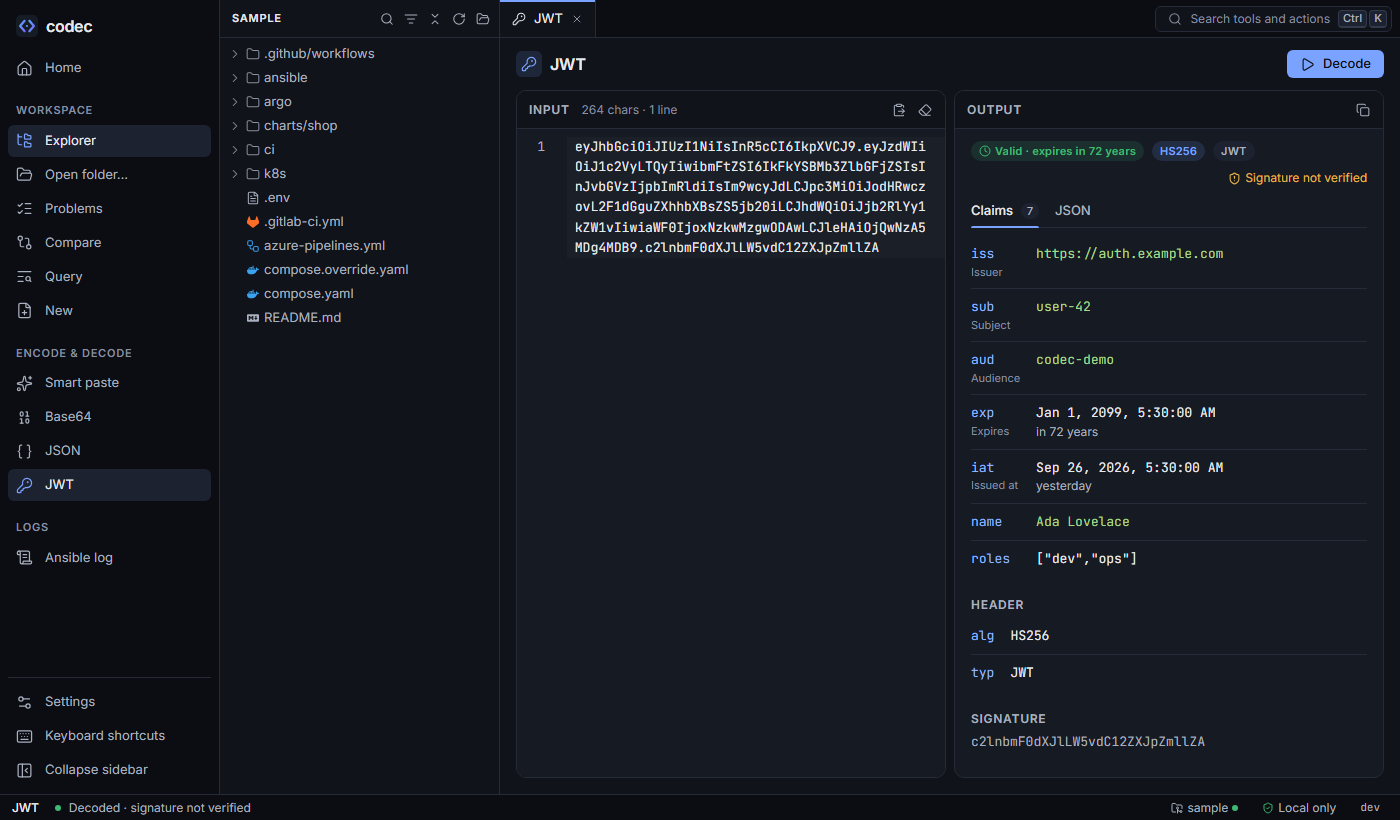
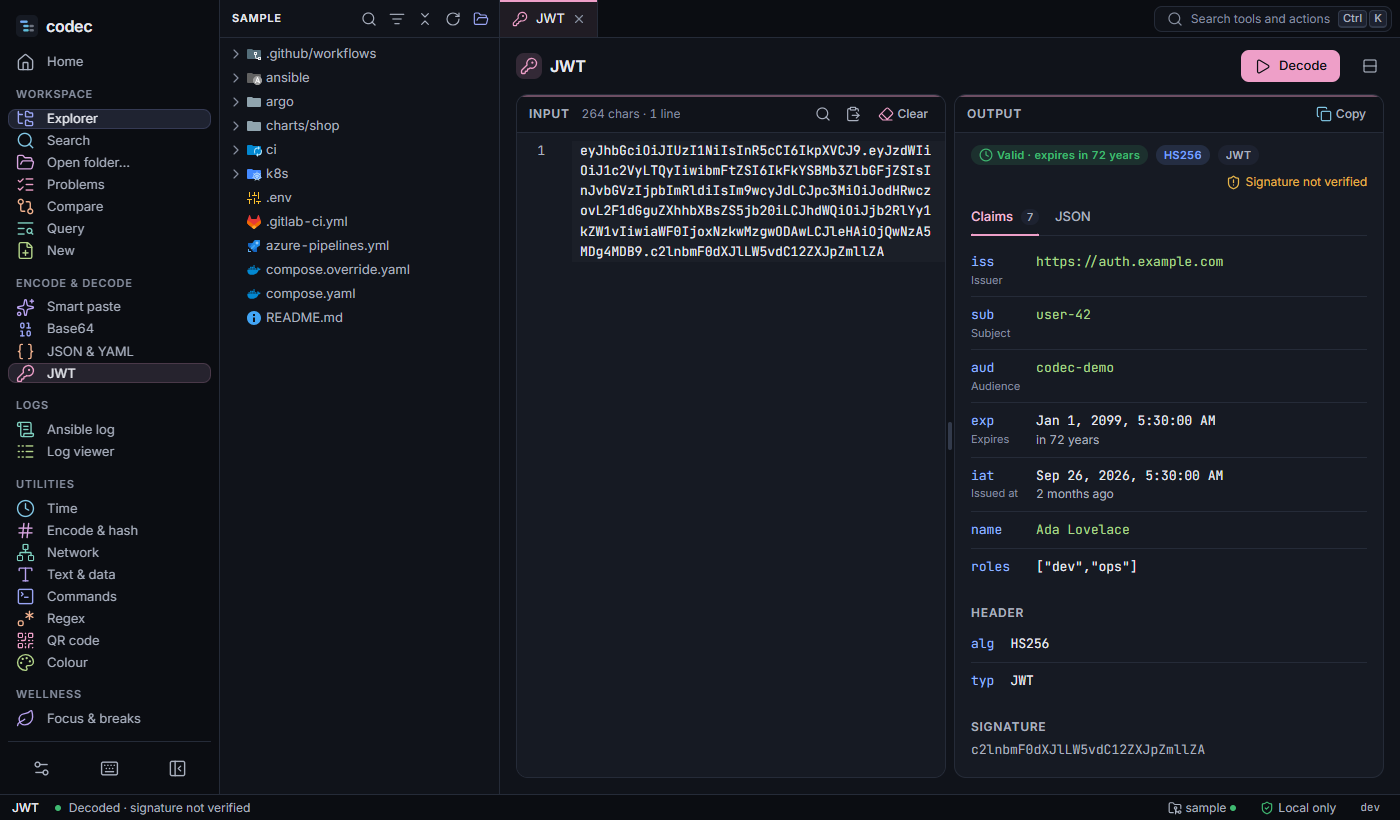
3.10.1 T6: design language, docs and screenshots; release 3.10.1

diff --git a/docs/design.html b/docs/design.html
@@ -78,6 +78,7 @@
 
 <h2 id="colour">Colour<a class="anchor" href="#colour">#</a></h2>
 <p>codec is dark by default, with more themes in Settings: <strong>Dusk</strong>, a softer, colourful dark theme for long days (a muted blue-violet ground, off-white text at about 10:1 instead of 16:1, pastel colours, each tool and kind of action in its own colour); <strong>Midnight</strong>, <strong>Forest</strong>, <strong>Rosé</strong> and <strong>Ocean</strong>, the same colours on deep navy, green-grey, pink-violet and deep blue grounds; <strong>High contrast</strong>, black and white with every text at least 7:1; <strong>Light</strong>; and <strong>Paper</strong>, a warm, low-glare light theme in which the tools keep their colours. System follows the operating system, using the light and the dark theme you choose for it. Depth comes from stepping surfaces, not from shadows; the one soft shadow is kept for popovers and dialogs. Every colour is a named token; components never use raw colours.</p>
+<p><strong>Colour has three jobs, kept apart.</strong> Each tool has its own colour (eight of them: indigo, violet, orchid, pink, peach, lime, teal, cyan), shown on the rail, its tab, its Home card and its page, in every theme; each kind of action has a tone (copy, clear, save, swap, open, add, run); and the status colours below are used by no tool, so a colour never suggests a problem that isn't there. <em>Settings → Tool colours</em> turns the first two off, and everything takes the theme's accent.</p>
 <h3 id="surfaces">Surfaces and text<a class="anchor" href="#surfaces">#</a></h3>
 <div class="swatches">
   <div class="swatch"><span style="background:#0b0d12"></span><div><code>--bg-0</code><br>app, rail</div></div>
@@ -113,12 +114,12 @@
 
 <h2 id="type">Type and spacing<a class="anchor" href="#type">#</a></h2>
 <ul>
-  <li><strong>UI:</strong> Inter, 13 px with 1.5 line height; 11 and 12 px for small text; 14, 16, 20 and 28 px for headings.</li>
-  <li><strong>Code:</strong> JetBrains Mono, 13 px with 1.55 line height. Both fonts are bundled; nothing loads from the internet.</li>
+  <li><strong>UI:</strong> Inter, 13 px with 1.5 line height; 11 and 12 px for small text; 14, 16, 20 and 28 px for headings. Interface size Large makes each a step bigger. Figures keep one width, so counts and times don't shift as they change.</li>
+  <li><strong>Code:</strong> JetBrains Mono, 13 px with 1.55 line height, for code, paths and values, never for sentences. Both fonts are bundled; nothing loads from the internet.</li>
   <li><strong>Spacing:</strong> a 4 px scale (4, 8, 12, 16, 20, 24, 32, 48).</li>
-  <li><strong>Radius:</strong> 4 px for inputs, 6 px for buttons, 10 px for panels and dialogs.</li>
-  <li><strong>Controls:</strong> 28 px tall (24 px compact).</li>
-  <li><strong>Motion:</strong> 120 ms ease-out, and none at all when the system asks for reduced motion.</li>
+  <li><strong>Radius:</strong> 4 px for inputs, 8 px for buttons, 12 px for panels and cards, 16 px for dialogs.</li>
+  <li><strong>Controls:</strong> 28, 32 or 36 px tall for Compact, Comfortable (the default) and Large.</li>
+  <li><strong>Motion:</strong> 80 ms for hovers, 120 ms for most changes, 240 ms for things that move across the screen, and none at all when the system asks for reduced motion.</li>
 </ul>
 
 <h2 id="layout">Layout<a class="anchor" href="#layout">#</a></h2>
@@ -139,10 +140,11 @@
   <text class="sm" x="24" y="310">Status bar: file type · path at the cursor · problem counts · folder and watch state · version</text>
 </svg>
 </div>
-<p>All panes resize and collapse, and their sizes persist. Lens views use a consistent three-part layout: a side panel of inputs and summaries, a main area (graph or list), and details for the selected item.</p>
+<p><strong>Every pane resizes.</strong> Drag the line between two panes (a grip in its middle shows where), or focus it and use the arrow keys (<kbd>Shift</kbd> for bigger steps, <kbd>Home</kbd> and <kbd>End</kbd> for the limits); a double click or <kbd>Enter</kbd> puts it back. Sizes are remembered, side panels keep their width when the window changes, and panes stack when there is no room side by side. A tool's input can sit beside its output or over it (the button at the end of its toolbar). Lens views use one three-part layout: a side panel of inputs and summaries, a main area (graph or list), and details for the selected item.</p>
+<p><strong>The shell is built around what you use.</strong> The rail lists Home, your pinned tools, the workspace views and every tool by group. Tabs that don't fit scroll and are listed under a count at the end; drag one to move it, right-click it to close it, the others or all. Home finds a tool by name or by what it does, and shows the pinned ones and the ones opened lately first. The palette (<kbd>Ctrl</kbd> <kbd>K</kbd>) lists every action, tool and setting, the ones run last first.</p>
 
 <h2 id="components">Components<a class="anchor" href="#components">#</a></h2>
-<p>Every screen is built from one shared set: buttons (primary, secondary, ghost), icon buttons with tooltips, tabs, segmented controls, selects, toggles, search inputs, split panes, the tree (keyboard navigable, windowed for long lists), the code view (CodeMirror), the graph (automatic layout, pan and zoom, hover highlights neighbours), popovers, context menus, dialogs, toasts (with an optional Undo), badges with file-type logos, empty states and skeletons.</p>
+<p>Every screen is built from one shared set: buttons (primary, secondary, ghost), icon buttons with tooltips, tabs, segmented controls, selects, toggles, text fields with one frame and one focus ring, chips (presets and toggles), search inputs, split panes, a view header, the tree (keyboard navigable, windowed for long lists), the code view (CodeMirror), the graph (automatic layout, pan and zoom, hover highlights neighbours), popovers, context menus, dialogs, toasts (with an optional Undo), badges with file-type logos, empty states and skeletons.</p>
 <ul>
   <li><strong>Icons:</strong> Lucide, 16 px, 1.75 stroke, in the current text colour.</li>
   <li><strong>Logos:</strong> the official marks of Kubernetes, Helm, Argo, GitHub Actions, GitLab, Azure Pipelines, Ansible and Docker, used only to label file types, in brand colours adjusted for contrast in each theme.</li>
@@ -152,15 +154,16 @@
 <div class="table-wrap"><table>
   <tr><th>State</th><th>Pattern</th></tr>
   <tr><td>Empty</td><td>An icon, one sentence of what goes here, and the action that fills it ("Open folder", "Try the sample").</td></tr>
-  <tr><td>Loading</td><td>Skeleton blocks in the shape of the content; small "Reading…" text only for refreshes of content already shown.</td></tr>
-  <tr><td>Error</td><td>What failed in plain words, the reason if known, and a way forward ("Try again", a link to the line).</td></tr>
+  <tr><td>Loading</td><td>Skeleton blocks in the shape of the content; small "Working…" or "Reading…" text in the header only for content already shown that is being worked out again. Never a spinner.</td></tr>
+  <tr><td>Error</td><td>An icon, what failed in plain words, the reason if known, and a way forward ("Try again", a link to the line). The same everywhere.</td></tr>
   <tr><td>Success</td><td>Quiet: a green check and a count ("No problems found"), never a modal.</td></tr>
 </table></div>
 
 <h2 id="a11y">Accessibility<a class="anchor" href="#a11y">#</a></h2>
 <ul>
   <li>Text meets 4.5:1 contrast on its surface (muted text included, on every surface but pressed states).</li>
-  <li>A 2 px accent focus ring on keyboard focus, never removed without a visible replacement.</li>
+  <li>A 2 px accent focus ring on keyboard focus, never removed without a visible replacement; a text field shows its border colour and a ring.</li>
+  <li>Dividers between panes are focusable and move with the arrow keys.</li>
   <li>Every control has an accessible name; icon-only buttons have labels and tooltips.</li>
   <li>Trees, lists, tabs and radio groups follow the WAI-ARIA patterns for keyboard use.</li>
   <li>Reduced motion is respected.</li>

diff --git a/docs/workspace.html b/docs/workspace.html
@@ -164,8 +164,12 @@
 </ul>
 <p>What-if edits live in the tab until you reset or close it. The dot on the tab shows a file has them.</p>
 
+<h2 id="tabs">Tabs and panes<a class="anchor" href="#tabs">#</a></h2>
+<p>Every file, view and tool opens as a tab and keeps its state while the tab is open. When the tabs don't fit, the bar scrolls (the mouse wheel moves it), the current tab stays in view and a count at the end lists them all. Drag a tab to move it; right-click it (or <kbd>Shift</kbd> <kbd>F10</kbd>) for Close, Close the others, Close tabs to the right and Close all. <kbd>Alt</kbd> <kbd>]</kbd> and <kbd>Alt</kbd> <kbd>[</kbd> go to the next and previous tab, <kbd>Alt</kbd> <kbd>Shift</kbd> <kbd>W</kbd> closes the current one.</p>
+<p>Panes resize: the explorer, the outline panel, the three parts of the Helm, Argo, pipeline, Compose and Ansible views, and the sides of a comparison. Drag the line between two panes, or focus it and use the arrow keys (<kbd>Shift</kbd> for bigger steps, <kbd>Home</kbd> and <kbd>End</kbd> for the limits); a double click or <kbd>Enter</kbd> puts it back. Sizes are remembered.</p>
+
 <h2 id="palette">The command palette<a class="anchor" href="#palette">#</a></h2>
-<p><kbd>Ctrl</kbd> <kbd>K</kbd> searches every action: open a folder, lint the workspace, render any chart, open any workflow, pipeline, Compose file or playbook in its view, build a Kustomize overlay, the file actions of the current tab, settings and tools.</p>
+<p><kbd>Ctrl</kbd> <kbd>K</kbd> searches every action: open a folder, lint the workspace, render any chart, open any workflow, pipeline, Compose file or playbook in its view, build a Kustomize overlay, the file actions of the current tab, settings and tools. While nothing is typed, the commands you ran last come first. Every setting has its own entry: "Settings: Theme" opens Settings on that row.</p>
 <figure>
   <img src="images/palette.png" alt="The command palette filtered by 'argo', listing each Argo file's view" width="1400" height="820" loading="lazy">
   <figcaption>Typing "argo" lists every Argo file's view, plus related actions.</figcaption>

diff --git a/docs/tools.html b/docs/tools.html
@@ -70,6 +70,14 @@
   <figcaption>The JWT tool: claims as a table, expiry at a glance, and a clear note that the signature is not verified.</figcaption>
 </figure>
 
+<h2 id="finding">Finding and arranging tools<a class="anchor" href="#finding">#</a></h2>
+<ul>
+  <li><strong>Home</strong> has a search box that finds a tool by its name, what it does or a keyword ("pass" finds Password, htpasswd and Sanitize). Under it are the tools you pinned and the ones you opened last.</li>
+  <li><strong>Pin</strong> a tool, or one sub-tab such as Cron, with the star on its Home card or from its menu on the rail (right-click, or <kbd>Shift</kbd> <kbd>F10</kbd>): it goes to the top of the rail and of Home.</li>
+  <li><strong>Panes resize.</strong> Drag the line between the input and the output (or focus it and use the arrow keys); a double click puts it back. The button at the end of a tool's toolbar puts the input over the output instead of beside it. Both are remembered per tool.</li>
+  <li><strong>Tool colours.</strong> Each tool has its own colour on the rail, its tab and its page, in every theme; <em>Settings → Tool colours</em> turns that off.</li>
+</ul>
+
 <h2 id="smart">Smart paste<a class="anchor" href="#smart">#</a></h2>
 <p><strong>Smart paste</strong> and <strong>Base64</strong> have tabs, like the Log viewer: keep a JWT, a base64 secret and a JSON blob open at once, each with its own input and result. <strong>+</strong> (or <kbd>Alt</kbd> <kbd>T</kbd>) opens a tab, × or a middle click (or <kbd>Alt</kbd> <kbd>W</kbd>) closes one, a double click renames it. Smart paste names a tab after what it found (<em>JWT</em>, <em>base64</em>, <em>JSON</em>); Base64 after its direction (<em>Encode 1</em>), never after what you pasted. Closing a tab with text in it offers Undo; tabs last as long as the window.</p>
 <p>Every tool's output has a <strong>Find</strong> button (or <kbd>Ctrl</kbd>+<kbd>F</kbd> with the pointer over the output): type and every match is marked, with a count; <kbd>Enter</kbd> goes to the next, <kbd>Shift</kbd>+<kbd>Enter</kbd> to the previous. Case is ignored.</p>

diff --git a/design/design-language.md b/design/design-language.md
@@ -4,8 +4,11 @@ How codec looks and behaves, for anyone (person or agent) changing the
 UI. The user-facing version is `docs/design.html`. Tokens live in
 `frontend/src/lib/styles/tokens.css`; components use tokens only.
 
-Dark by default, with a light theme [81]. Calm, dense, precise — a professional dev tool, closer to
-Linear or VS Code than to a marketing site.
+Dark by default, ten themes in all [81, 94, 95]. Calm, dense, precise —
+a professional dev tool, closer to Linear or VS Code than to a
+marketing site. Refreshed in 3.10.1 and 3.10.2 (decision 105): colour
+in every theme, shared parts in place of copies, panes you can size,
+and a shell built around what you use most.
 
 ## Principles
 
@@ -28,11 +31,13 @@ Linear or VS Code than to a marketing site.
 | Accent | `--accent #7aa2ff` · `--accent-hover` · `--accent-soft` (14%) · `--accent-fg` text on solid accent |
 | Status | `--ok #3fb971` · `--warn #e5b449` · `--err #f06b75` · `--info #5ab0ff`, each with `-soft` |
 | Space | 4px scale: `--s-1 4` `--s-2 8` `--s-3 12` `--s-4 16` `--s-5 20` `--s-6 24` `--s-8 32` `--s-12 48` |
-| Radius | `--r-sm 4` inputs · `--r-md 6` buttons · `--r-lg 10` panels/dialogs · `--r-full` pills |
-| Type | `--font-ui` Inter, `--font-mono` JetBrains Mono (bundled, OFL). Sizes `--fs-xs 11` `-sm 12` `-md 13` (base) `-lg 14` `-xl 16` `-2xl 20` `-3xl 28`; line height 1.5 (code 1.55) |
+| Radius | `--r-sm 4` inputs, small marks · `--r-md 8` buttons, rows · `--r-lg 12` panels, cards · `--r-xl 16` dialogs · `--r-full` pills |
+| Type | `--font-ui` Inter, `--font-mono` JetBrains Mono (bundled, OFL). Sizes `--fs-xs 11` `-sm 12` `-md 13` (base) `-lg 14` `-xl 16` `-2xl 20` `-3xl 28`, each a step bigger at Interface size Large (12 … 30); line height 1.5 (code 1.55). Figures are tabular everywhere (`tnum`), so counts and times don't shift. The code font is for code, paths and values, never for sentences |
 | Controls | Interface size (`data-size` on `<html>`): `--control-h` 28 / 32 / 36 and `--control-h-sm` 24 / 28 / 32 for Compact / Comfortable (default) / Large; Lucide icons keep the size written in code (the Compact one) and grow by `--icon-scale` 1 / 1.125 / 1.25, rounded to whole pixels (global.css), so write icon sizes for Compact · `--tabbar-h 38` · `--statusbar-h 26` · rail 48/220 |
-| Motion | `--dur 120ms`, `--ease`; none under `prefers-reduced-motion` |
-| Elevation | `--shadow-pop` for popovers and dialogs only; depth otherwise comes from surface steps |
+| Focus | `--focus-ring`: the ring a field shows around its border (in the tool's colour inside a tool). The global outline stays for everything else |
+| Match | `--match-bg`, `--match-current-bg`: a search hit, wherever it is drawn (editor, log rows, Find in Files, the source peek) |
+| Motion | `--dur-fast 80ms` hovers and presses · `--dur 120ms` most changes · `--dur-slow 240ms` things that move across the screen · `--ease`; none under `prefers-reduced-motion` |
+| Elevation | `--shadow-pop` for popovers and dialogs; `--shadow-raise`, barely there, for a card that lifts under the pointer; depth otherwise comes from surface steps |
 | Layers | `--z-sticky 10` `--z-popover 50` `--z-dialog 60` `--z-toast 70` |
 
 Syntax (CodeMirror): key `#8fb4ff` · string `#a8d68a` · number
@@ -106,7 +111,9 @@ value in each theme block (Dusk may inherit Dark's).
 
 - **Tool hue.** Each tool and workspace view has one (`hue` in
   `lib/tools.ts`, `viewHue` for the rail's views), from `--hue-indigo`,
-  `-violet`, `-pink`, `-peach`, `-lime`, `-teal`, `-cyan`. What belongs to
+  `-violet`, `-orchid`, `-pink`, `-peach`, `-lime`, `-teal`, `-cyan`
+  (eight; no two tools in one group of the rail share one, and none
+  sits on a status colour: a blue or a green was left out for that). What belongs to
   the tool (its page, rail entry, Home card) sets `--tool` to
   `hueVar(hue)` and takes the `.hued` class, which works out
   `--tool-accent`, `--tool-accent-hover`, `--tool-accent-soft` and
@@ -122,10 +129,15 @@ value in each theme block (Dusk may inherit Dark's).
 How much of the first two a theme shows is `--tint-tool` and
 `--tint-action`, and `--tint-fill` for fills drawn in the tool's colour
 (the selected sub-tab as a soft pill, the selected rail entry's glow, a
-line along the top of a `Pane`): `0%` in Dark and Light, which keeps
-them exactly as they were, `100%` in Dusk. Workspace views (Compare,
+line along the top of a `Pane`). Since 3.10.1 every theme shows them:
+tool and action `100%` everywhere, fills `60%` in Dark and Light (the
+quieter two) and `100%` in the rest; Light has its own hues, dark
+enough for white. Settings → Tool colours off sets
+`data-colour='plain'` on `<html>`, which zeroes all three in any theme
+(Dark and Light as they were before 3.10.1). Workspace views (Compare,
 Query, New, Problems) are `.hued` too, with their `viewHue`. Never use a `--hue-*` or `--act-*` token directly; go through
-the roles, so a theme can turn them up or down in one place.
+the roles, so a theme or the setting can turn them up or down in one
+place. A shared component reads `var(--tool-accent, var(--accent))`.
 
 Never hard-code a colour, size or font in a component. A new token is a
 change to this file and `tokens.css` together.
@@ -142,13 +154,30 @@ change to this file and `tokens.css` together.
 └───────────────────────────────────────────────┘
 ```
 
-- Rail 48/220 px (`Ctrl+B`); groups Workspace · Encode & decode · Logs ·
-  Utilities · Settings. Explorer and lens panel resize and collapse; sizes persist.
-- Every view is a tab keyed by its route (`lib/stores/router.svelte.ts`);
-  views stay mounted while their tab is open (`active` prop hides them).
-- Lens views (Argo, Pipeline, Compose, Ansible) use `LensView` (header,
-  what-if overrides, reload counter) and `LensGrid` (side · main ·
-  detail, stacked when narrow). New lens views follow the same frame.
+- **Rail** 48/220 px (`Ctrl+B`): Home, then Pinned (the tools and
+  sub-tabs the user pinned, `lib/stores/usage.svelte.ts`), Workspace,
+  and the tool groups; Settings, Keyboard shortcuts and Collapse are
+  three icons in a row at the bottom. The list scrolls, and fades where
+  it goes on. A tool's menu (right-click, Shift+F10) pins it.
+- **Tabs.** Every view is a tab keyed by its route
+  (`lib/stores/router.svelte.ts`); views stay mounted while their tab
+  is open (`active` prop hides them). Tabs that don't fit scroll (the
+  wheel too), the current one stays in view and a count at the end
+  lists them all; a tab drags to a new place and has a menu (close,
+  the others, to the right, all). `Alt+]`, `Alt+[`, `Alt+Shift+W`.
+- **Home** is where a tool is found: a search box, pinned tools, the
+  ones opened lately, the workspace, then every tool by group; a star
+  on a card pins it.
+- **Panes resize.** Anything with two or three parts is a `SplitPane`
+  or `ThreePanes`, never a fixed grid: sizes persist per `id`, a side
+  panel keeps its width in px when the window changes (`px`), and the
+  parts stack when narrow. Explorer and lens panel resize and collapse.
+- **Lens views** (Argo, Pipeline, Compose, Ansible) use `LensView`
+  (`PanelHeader`, what-if overrides, reload counter) and `LensGrid` or
+  `ThreePanes` (side · main · detail, one remembered size for all of
+  them). New lens views follow the same frame.
+- **A view's header** is `PanelHeader`: icon, name, what is known
+  (counts, a **What-if** badge), actions on the right.
 
 ## Components
 
@@ -161,7 +190,11 @@ Build once in `frontend/src/lib/components` and reuse:
 | `Tabs`, `SegmentedControl` | Switching views of the same thing; exclusive choices |
 | `WorkTabStrip` + `WorkTabs` (features/shared) | Several of the same work open at once in one tool (pastes, comparisons, logs; decision 97): one store and strip, each tab's component kept mounted and hidden when not current |
 | `Select`, `Toggle`, `SearchInput` | Form controls (Bits UI underneath) |
-| `SplitPane` | Resizable panes (sizes persisted by key) |
+| a plain `<input>`, `<textarea>`, `<select>` | Text fields and native menus: global.css gives every one the same frame and focus (border colour plus `--focus-ring`), with no weight, so a view writes only what differs. A field inside its own framed box sets `box-shadow: none` and the box shows the focus (`:focus-within`) |
+| `Chip` | A small choice in a row: a suggestion (a preset; `selected` marks the one in use) or a toggle (`pressed`: a flag, a weekday), `square` for one letter |
+| `SplitPane` | Two resizable panes: drag, arrow keys (Shift, Home, End), double click or Enter to reset; `direction`, `stackBelow`, `flush` (a line, for panes that touch), `px` (a side panel's width); sizes persisted by `id`, side by side and stacked apart |
+| `ThreePanes` | Side · main · detail, each resizable: the frame of the lens views |
+| `PanelHeader` | The strip at the top of a view: icon, title, `meta`, `actions` |
 | `TreeView` | File trees and outlines; keyboard pattern, windowed over 300 rows |
 | `VirtualList` | Long lists of rows of any height (Problems, Resources cards, Log viewer): only rows in view are drawn, each measured once shown; `scrollToIndex`, `onrange` for page-by-page loading |
 | `CodeView` | Any code or YAML (CodeMirror 6), read-only or editable |
@@ -171,7 +204,9 @@ Build once in `frontend/src/lib/components` and reuse:
 | `ContextMenu` | Right-click menus (also Shift+F10); entries built per open from the event; sentence case, an icon per entry |
 | `Badge`, `Kbd` | File type with logo; key combos |
 | `EmptyState` | Nothing to show yet: icon, one sentence, the action that fills it |
+| `ErrorNote` | Something failed: icon, the reason, and `retry` (Try again) or other ways forward; `inline` beside a field or a row. Never a bare red paragraph |
 | `Skeleton` | Loading placeholders in the content's shape |
+| `Working` | "Working…" in a pane's header while content already shown is worked out again; appears after 250 ms. Never a spinner |
 | `Toaster` / `toast()` | Brief confirmations and non-blocking errors; an optional action ("Cleared · Undo") for undoable clears |
 
 Shell pieces live in `lib/shell` (Rail, TabBar, StatusBar,
@@ -192,15 +227,21 @@ them when it changes, and rename the SVG if browser tabs keep the old one.
 
 - **States.** Empty → `EmptyState`. First load → `Skeleton` inside a
   container with `aria-busy="true"` and an `aria-label`. Refresh of
-  content already shown → small muted text in the header ("Reading…").
-  Error → plain sentence, the reason, a way forward; never a raw stack.
+  content already shown → `Working` in the header ("Reading…").
+  Error → `ErrorNote`: a plain sentence, the reason, a way forward
+  (`retry` wherever the thing can be asked for again); never a raw
+  stack, never a spinner.
 - **Commands and shortcuts.** App-wide commands in `App.svelte`; a view's
   own commands registered while it is active
   (`$effect(() => active && commands.register([...]))`, or
   `toolCommands` for tools). Shortcuts via `shortcut()`; add them to
   `ShortcutsDialog` and `docs/shortcuts.html`.
 - **Tools.** One page: title and toolbar, input left, output right
-  (`ToolLayout`, `InputPane`, `Pane`) when the input can be a document.
+  (`ToolLayout`, `InputPane`, `Pane`) when the input can be a document;
+  the two resize, and a button at the end of the toolbar puts the
+  input over the output instead (remembered per tool,
+  `features/shared/panes.svelte.ts`). The output pane is `TextOutput`
+  (`OutputPane` is the same, fed from a transform session).
   When it is a value or a small form (a timestamp, a cron expression,
   generator options), one column instead (`ToolLayout` `body`,
   `LineInput`, `Pane grow={false}`): the input on top, answers below,
@@ -212,8 +253,15 @@ them when it changes, and rename the SVG if browser tabs keep the old one.
   `Job` / `TextJob` (newest answer wins, debounced while typing). One
   tool hands input to another with `handoff.send(tool, tab, input)`.
   Results with several values give each its own copy button.
-- **Persistence.** `persisted()` is for display preferences only. Never
-  persist tool input, what-if edits or variables [19].
+- **Persistence.** `persisted()` is for display preferences only: the
+  theme, sizes of panes, which tools are pinned or were opened last,
+  the palette's last commands. Never persist tool input, what-if edits
+  or variables [19].
+- **Palette.** One list for everything that can be done: commands,
+  tools and their sub-tabs, files of the open folder's lenses, and one
+  entry per setting (`features/settings/goto.svelte.ts`: "Settings:
+  Theme" opens the page on its row). The commands run last come first
+  while nothing is typed.
 - **API.** Components call the backend only through `lib/api/*`.
   Requests that follow typing are debounced and abortable.
 - **Desktop.** The same UI runs in the desktop window. Anything only it
@@ -227,8 +275,9 @@ them when it changes, and rename the SVG if browser tabs keep the old one.
 ## Accessibility checklist
 
 - Text contrast ≥ 4.5:1 on its surface; don't use `--fg-2` on `--bg-4`.
-- Keyboard focus visible (global 2 px accent ring); if a component
-  removes the outline, it shows an equivalent (border colour plus ring).
+- Keyboard focus visible (global 2 px accent ring); a field shows its
+  border colour plus `--focus-ring` (global.css does this for every
+  input); a component that removes either shows an equivalent.
 - Every interactive element has an accessible name (text, `aria-label`
   or `label`). Icon-only buttons use `IconButton`.
 - Trees, lists, tabs, radio groups follow WAI-ARIA keyboard patterns.
@@ -245,7 +294,10 @@ them when it changes, and rename the SVG if browser tabs keep the old one.
 
 ## Review checklist for UI changes
 
-1. Tokens only; shared components reused or extended, not copied.
+1. Tokens only; shared components reused or extended, not copied. No
+   hand-rolled field, chip, header, error line, spinner or fixed
+   two-pane grid: `Chip`, `PanelHeader`, `ErrorNote`, `Working`,
+   `SplitPane` exist for them.
 2. Empty, loading and error states present.
 3. Reachable by keyboard; has a palette entry if it is an action.
 4. Accessible names on controls; contrast checked for new colour pairs.

diff --git a/design/roadmap.md b/design/roadmap.md
@@ -72,27 +72,19 @@ keep the UI consistent and polished. Work efficiently: read only what a
 task needs and run only the tests for packages touched (the full suite
 runs once, at step 4).
 
-### 3.10.1 and 3.10.2: the interface refresh
+### 3.10.2: the interface refresh, the views
 
-Asked for 2026-11-12 (decision 105), after a review of the whole
-frontend: the tokens and the design language are sound, but the feature
-code drifted (the same thing built three or four ways), the default
-themes hide the colour system, toolbars are overloaded and panes have
-fixed sizes. A refresh, not a redesign: frontend only, no engine or API
-change, nothing persisted that decision 19 rules out. 3.10.1 is the
-foundation and the shell, since every screen uses them; 3.10.2 is the
-views, one area at a time.
-
-**3.10.1 — foundation and shell** (`feature/mab/v3.10.1`)
-
-| Task | What | Done when |
-|---|---|---|
-| T1 | Visible defects: Helm release fields cut off; `--fg-3` (not a token) in six places; graphs that never refit and don't mark the selected node; fold arrows off their line; a hovered error row losing its tint; a click on the log histogram filtering one bucket; steppers drifting off their step; arrowheads sharing one id; Mist missing from the theme text | Each is gone on the sample; `check` passes |
-| T2 | Tokens for the new look: tool hues shown, restrained, in Dark and Light and more of them, so fewer tools share one; type that grows with Interface size; tabular figures; a focus-ring token; motion tokens (`--dur-fast`, `--dur`, `--dur-slow`); elevation and a softer panel radius; one match-highlight token | `contrast` passes for all ten themes; no screen changes layout |
-| T3 | Shared parts, so drift has nowhere to start: `Field` (text and number), `Chip`, `PanelHeader`, one `OutputPane`, `ErrorState` (reason and a way forward), loading that is always `Skeleton` (no spinners); the copies replaced | No hand-rolled field, chip, spinner or bare red error left in `features/` |
-| T4 | Panes you can size: input and output in every tool on a `SplitPane` (drag, keyboard, double-click to reset, side by side or stacked, remembered per tool); the Helm side panel, the lens grids, structure compare and the Source drawer the same | Every two-pane view resizes and remembers; narrow widths stack |
-| T5 | Shell: a rail that never clips, with pinned and recent tools; tabs with an overflow menu, reorder, a context menu and close and switch shortcuts; Home with a search box, recents and pinned in place of forty equal cards; one palette with recent commands and settings rows; prose in the status bar in the interface font | Keyboard-only walk through rail, tabs, Home and palette |
-| T6 | Design language and `docs/design.html` rewritten for the above; changed screenshots; release | Routine step 4 |
+The second half of the refresh asked for 2026-11-12 (decision 105).
+3.10.1 gave every screen its foundation (tokens, shared parts, panes
+that resize, the shell); 3.10.2 goes through the views, one area at a
+time, on those parts. Frontend only, no engine or API change, nothing
+persisted that decision 19 rules out. Left over from 3.10.1 and done
+with the view they belong to: each view's own field rules deleted
+where the shared base covers them; the Helm, file and workspace
+problems headers onto `PanelHeader`; loading states that are still
+blank; Regex and Commands onto `ToolLayout` (they then get the
+input-over-output button); the docs screenshots of Home, New, Settings,
+Compare, Query and Problems.
 
 **3.10.2 — the views** (`feature/mab/v3.10.2`)
 
@@ -165,6 +157,7 @@ script or a Makefile target.
 
 | Version | Items |
 |---|---|
+| 3.10.1 | The interface refresh, first part (decision 105): each tool and action in its own colour in every theme, with a Tool colours setting; text that grows with Interface size Large, tabular figures, rounder shapes; one look for fields, errors (with Try again), chips, view headers and the output pane, no spinners; panes you can size everywhere (lens views, Helm, Compare, the Source drawer; input over output per tool); pinned and recent tools on the rail and Home, Home's search, tabs that overflow, move and have a menu and shortcuts, a palette that remembers and lists every setting; fixes to graphs, the Helm panel, fold arrows and the log list |
 | 3.10.0 | Commands (Utilities): command lines explained part by part and built with a form, two-way, for git, kubectl, helm, docker and compose and some 37 Linux tools, with risky parts flagged and a safer way; a cheat sheet searched by what you want to do; Smart paste and `codec explain`/`codec how`; Quote (a value written for bash, PowerShell, cmd, JSON, YAML, .env and more, both ways, in layers); Sanitize (secrets, emails, addresses, hosts, UUIDs, Azure names and user names out of a text or a log export, the same stand-in throughout; `codec sanitize`); breaks that rest outside active hours; fourteen sounds, a sound per moment, packs and focus sounds; the Paper, Forest, Rosé, Ocean and High contrast themes with a swatch menu |
 | 3.9.0 | Log to source: file and line links, Find in workspace and Find source, in a Source drawer with a read-only peek; pipeline logs (Azure DevOps, GitHub Actions and its log zip, GitLab, Jenkins) in steps; build and infrastructure logs (BuildKit, Terraform, Helm, Maven, Gradle, npm, dotnet, go test, pytest); access logs, syslog, journald, Kubernetes events and audit logs; Smart paste for all of them; code colours in some 40 languages (CodeMirror's legacy modes, loaded per language) |
 | 3.8.1 | File and folder icons from the Material Icon Theme (as in VS Code), with a Simple setting; top tabs in their tool's colour, as on the rail |

diff --git a/CHANGELOG.md b/CHANGELOG.md
@@ -6,6 +6,13 @@ All notable changes to codec are documented here. The format follows
 
 ## [Unreleased]
 
+## [3.10.1] - 2026-11-12
+
+The interface refreshed, first part: colour in every theme, one look
+for the parts every view shares, panes you can size, and a shell built
+around the tools you use. Frontend only; nothing about what codec reads
+or computes changes.
+
 ### Added
 
 - **Pinned tools.** Pin a tool, or one sub-tab such as Cron, from its
